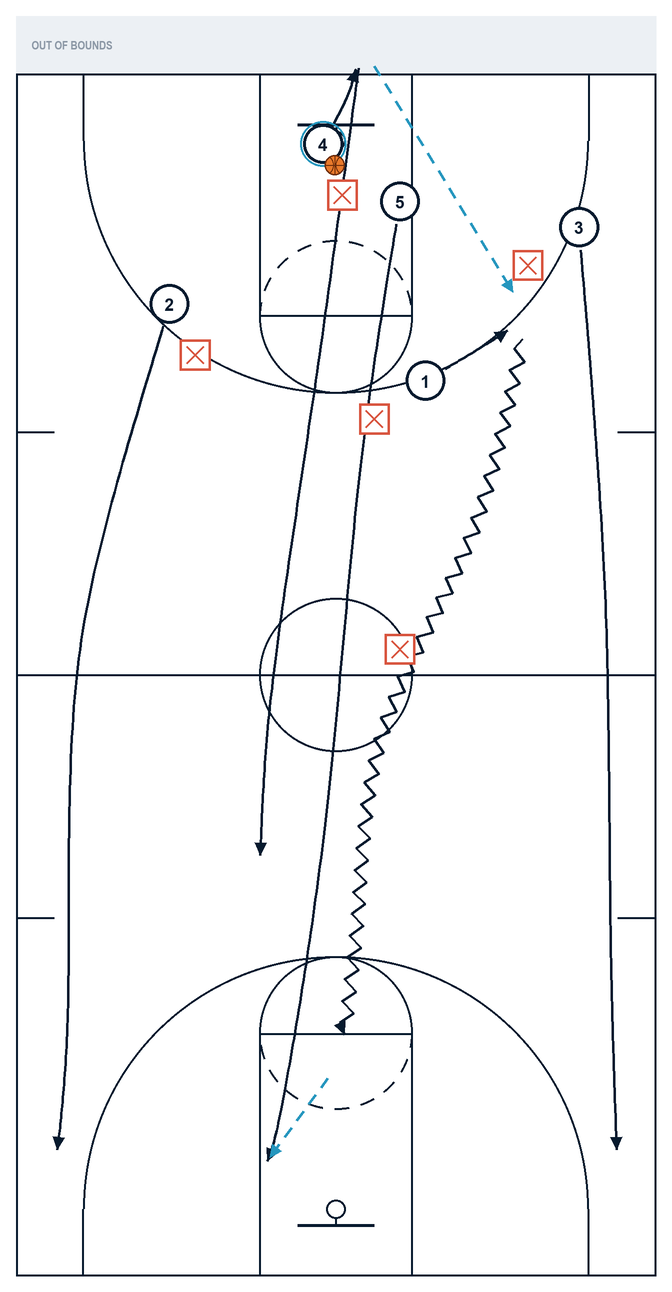
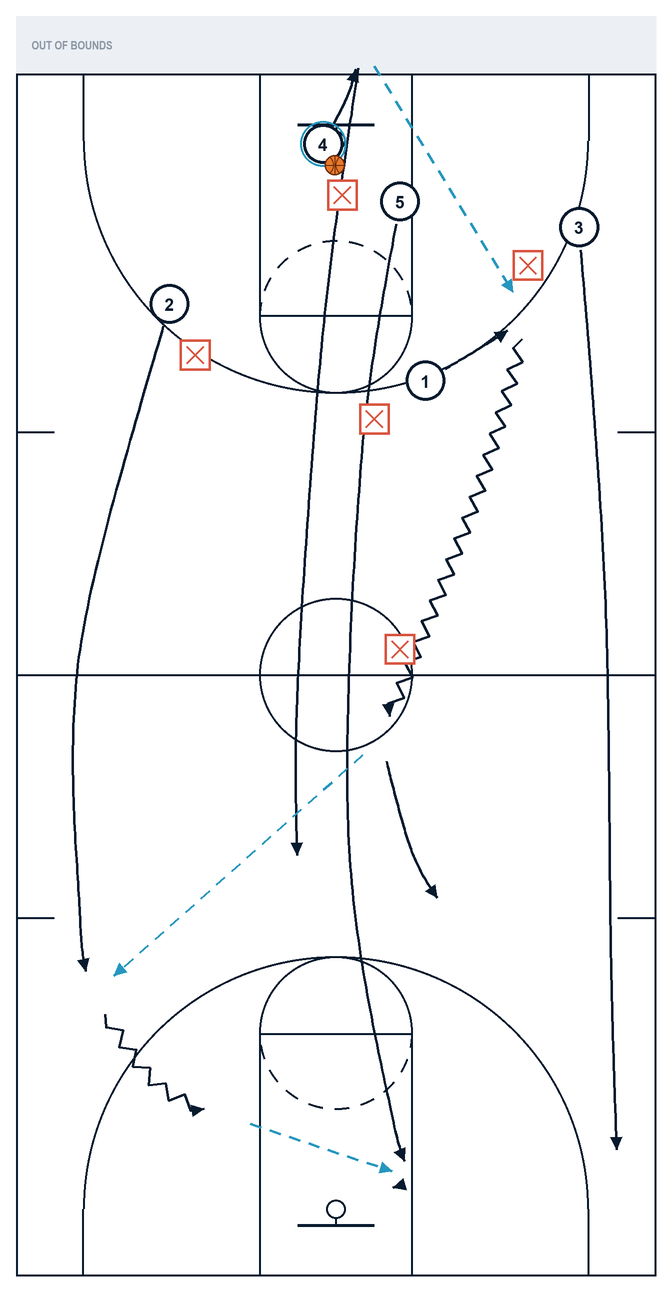
Race & Space: wings feed the Rabbit; add Dragon Cut off a rebound

diff --git a/index.html b/index.html
@@ -3888,16 +3888,17 @@ const PLAYS = [
     ],
     drills:["usScreen", "us5on0", "bfcMikan"] },
   // ── Transition (Race & Space) ──
-  { id:"race-space-rebound", name:"Race & Space: Off a Rebound", side:"transition", tag:"Race & Space · Defensive rebound to a layup",
+  { id:"race-space-rebound", name:"Race & Space: Off a Rebound", side:"transition", tag:"Race & Space · Rebound, ahead to 3, Rabbit layup",
     source:{ label:"Mike Neighbors' transition notes, Hoop Thoughts", url:"http://hoopthoughts.blogspot.com/2017/06/mike-neighbors-transition-offense.html" },
-    summary:"Rebound and go. Everybody has a job and a lane: the outlet goes quick, 5 sprints rim to rim, 2 and 3 sprint to the corners, and 1 throws it ahead to whoever beat his man down the floor.",
+    summary:"Rebound and go. Everybody has a job and a lane: the outlet goes quick, 5 sprints rim to rim, 2 and 3 sprint to the corners, 1 throws it ahead to 3, and 3 finds 5 at the rim.",
     steps:[
       "We're on defense at the top. Their shot misses and 4 grabs the rebound.",
       "1 gets wide to the right for the outlet, and 4 throws it to him right away.",
       "5 is the Rabbit: he sprints rim to rim, straight down the middle, to occupy the deep defender.",
       "2 and 3 are the Locks: they sprint the lanes wide and deep, all the way to the corners. 4 is the Dragon and trails the play.",
       "1 pushes the dribble and throws it ahead, up the street, to 3, who is running ahead of his man.",
-      "5 holds the deep defender on the block, so the rim is open. 3 attacks it for the layup.",
+      "5 holds the deep defender on the block. 3 attacks the rim.",
+      "The deep defender has to leave 5 to stop 3, so 3 hits 5 for the layup.",
     ],
     points:[
       "The race starts the moment we get the ball. Don't jog, don't look back: sprint your lane.",
@@ -3906,20 +3907,38 @@ const PLAYS = [
       "Locks: stay wide and get all the way to the corner. Spacing is what makes the race work.",
     ],
     drills:["rsArcs", "rsIntro", "trailer"] },
-  { id:"race-space-make", name:"Race & Space: Off a Made Shot", side:"transition", tag:"Race & Space · Made basket to a layup",
+  { id:"race-space-dragon", name:"Race & Space: Dragon Cut", side:"transition", tag:"Race & Space · Rebound, ahead to 3, Dragon layup",
     source:{ label:"Mike Neighbors' transition notes, Hoop Thoughts", url:"http://hoopthoughts.blogspot.com/2017/06/mike-neighbors-transition-offense.html" },
-    summary:"Even after they score, we race. 4 takes it out fast, 1 gets it right away and attacks the middle, and when the deep defender has to step up to stop him, 5 is open at the rim.",
+    summary:"The same race off a miss, but this time the deep defender stays home on 5. So 3 holds it and waits for 4, the Dragon, to trail down the middle, then hits him on a basket cut for the layup.",
+    steps:[
+      "We're on defense at the top. Their shot misses and 4 grabs the rebound.",
+      "4 outlets to 1, and everybody races: 5 sprints rim to rim, 2 and 3 sprint the lanes, 4 trails as the Dragon.",
+      "1 pushes the dribble and throws it ahead, up the street, to 3.",
+      "5 holds the deep defender on the block, and this time he stays with 5. So 3 doesn't force it: he waits on the Dragon.",
+      "4 trails down the middle, ahead of his man, who was late getting back.",
+      "4 cuts hard to the rim, and 3 hits him in stride for the layup.",
+    ],
+    points:[
+      "3: if the Rabbit is covered, don't force it. Hold it, keep your spacing and look for the trailer.",
+      "4: the Dragon runs too. Trail down the middle, then cut hard to the rim when you get to the top.",
+      "If the defense walls up to stop the ball, the trailer is open. Neighbors' rule: your trailer has to be open.",
+      "Hit the cutter in stride, out in front of him, so he can lay it in without stopping.",
+    ],
+    drills:["rsArcs", "rsIntro", "trailer"] },
+  { id:"race-space-make", name:"Race & Space: Off a Made Shot", side:"transition", tag:"Race & Space · Made basket, ahead to 2, Rabbit layup",
+    source:{ label:"Mike Neighbors' transition notes, Hoop Thoughts", url:"http://hoopthoughts.blogspot.com/2017/06/mike-neighbors-transition-offense.html" },
+    summary:"Even after they score, we race. 4 takes it out fast, 1 pushes and throws it ahead to 2, and when the deep defender has to step up to stop 2, 5 is open at the rim.",
     steps:[
       "They score at the top. 4 grabs the ball and steps out of bounds right away, no waiting.",
       "1 gets to the right side at the free-throw line extended, and 4 inbounds it to him right away.",
-      "5 sprints rim to rim and runs to the block opposite the ball. 2 and 3 sprint the lanes to the corners.",
-      "1 crosses the street with the dribble and attacks down the middle while the defense is still running back.",
-      "4 steps in and trails the play as the Dragon.",
-      "The deep defender has to step up to stop 1, so 1 dumps it off to 5 at the rim for the layup.",
+      "5 sprints rim to rim and runs to the block opposite the ball. 2 and 3 sprint the lanes.",
+      "1 pushes it up the middle while the defense is still running back. 4 steps in and trails the play as the Dragon.",
+      "1 throws it ahead, up the street, to 2 running the left lane.",
+      "2 attacks the rim. The deep defender has to leave 5 to stop him, so 2 hits 5 for the layup.",
     ],
     points:[
       "A made basket is not a time out. The fastest inbound wins the race.",
-      "1: get the ball and go. Attack downhill; a defender running backward can't guard you.",
+      "1: get the ball and go. If a wing is ahead of his man, throw it ahead. The ball moves faster than anyone can run.",
       "5: run to the block opposite the ball and show your hands. If your man leaves you, you score.",
       "Dragon: trail the play and stay ready. If the defense walls up to stop the ball, the trailer is open.",
     ],

diff --git a/make-plays.py b/make-plays.py
@@ -123,6 +123,28 @@ DRIBBLE_AT_CAPTIONS = [
     (7.5, "2 passes to 5 and cuts. 3 fills the open corner"),
 ]
 
+# Race & Space off a miss: the opening both rebound plays share. 4 rebounds
+# and outlets to 1, everyone races, and 1 throws it ahead to 3.
+RS_REBOUND_START = {4: (22, 6.5), 5: (29.5, 8.5), 1: (31, 24), 2: (10, 17), 3: (40, 17)}
+RS_REBOUND_CHASE = {"from": {4: (20.5, 10.5), 5: (27, 44), 1: (26, 27), 2: (8, 21), 3: (43, 21.5)},
+                    "speed": 11, "delay": {4: 0.8, 1: 0.7, 2: 0.7, 3: 0.7, 5: 0.3}}
+RS_REBOUND = [
+    {"move": 1, "t": (0.3, 1.0), "path": [(31, 24), (37, 23), (42, 24)]},
+    {"pass": (4, 1), "t": (0.9, 1.4)},
+    {"move": 5, "t": (0.5, 4.4), "path": [(29.5, 8.5), (27, 30), (24, 60), (21, 82), (19.5, 86.5)]},
+    {"move": 3, "t": (0.6, 3.3), "path": [(40, 17), (45, 38), (46, 58), (44.5, 71)]},
+    {"move": 2, "t": (0.6, 4.4), "path": [(10, 17), (5, 45), (4, 74), (3, 86)]},
+    {"dribble": 1, "t": (1.5, 3.0), "path": [(42, 24), (37, 38), (32.5, 51)]},
+    {"pass": (1, 3), "t": (3.0, 3.6)},
+    {"move": 1, "t": (3.6, 5.2), "path": [(32.5, 51), (35, 56), (38.5, 60)]},
+]
+RS_REBOUND_CAPTIONS = [
+    (0.0, "Off a miss: 4 grabs the rebound. Everybody races"),
+    (0.9, "4 outlets to 1, quick. 5 sprints rim to rim"),
+    (1.6, "2 and 3 sprint the lanes to the corners. 4 trails"),
+    (3.0, "1 throws it ahead to 3, up the street"),
+]
+
 PLAYS = [
     {
         # Pass and Cut around the horn: 2 passes to 3, 3 to 5, and 5 to 4,
@@ -619,44 +641,62 @@ PLAYS = [
     # 2 and 3 the Locks (corner runners), 4 the Dragon (trailer). We defend the
     # top basket and race to the far one.
     {
-        # Off a miss: 4 rebounds and outlets to 1, 1 throws it ahead to 3
-        # running the right lane, 5 holds the deep defender, 3 lays it in.
+        # Off a miss: 4 rebounds and outlets to 1, 1 throws it ahead to 3, 3
+        # attacks, the deep defender has to step up, and 3 hits 5.
         "slug": "race-space-rebound",
         "title": "Race & Space: Off a Rebound",
         "depth": 94,
         "hoop": (25, 88.75),
         "fps": 15,
-        "start": {4: (22, 6.5), 5: (29.5, 8.5), 1: (31, 24), 2: (10, 17), 3: (40, 17)},
+        "start": RS_REBOUND_START,
         "ball": 4,
-        "chase": {"from": {4: (20.5, 10.5), 5: (27, 44), 1: (26, 27), 2: (8, 21), 3: (43, 21.5)},
-                  "speed": 11, "delay": {4: 0.8, 1: 0.7, 2: 0.7, 3: 0.7, 5: 0.3}},
-        "length": 7.2,
-        "events": [
-            {"move": 1, "t": (0.3, 1.0), "path": [(31, 24), (37, 23), (42, 24)]},
-            {"pass": (4, 1), "t": (0.9, 1.4)},
-            {"move": 5, "t": (0.5, 4.4), "path": [(29.5, 8.5), (27, 30), (24, 60), (21, 82), (19.5, 86.5)]},
-            {"move": 3, "t": (0.6, 3.3), "path": [(40, 17), (45, 38), (46, 58), (44.5, 71)]},
-            {"move": 2, "t": (0.6, 4.4), "path": [(10, 17), (5, 45), (4, 74), (3, 86)]},
-            {"dribble": 1, "t": (1.5, 3.0), "path": [(42, 24), (37, 38), (32.5, 51)]},
-            {"pass": (1, 3), "t": (3.0, 3.6)},
-            {"dribble": 3, "t": (3.7, 4.7), "path": [(44.5, 71), (39, 80), (30.8, 85.6)]},
-            {"shot": 3, "t": (4.7, 5.2)},
-            {"move": 1, "t": (3.6, 5.2), "path": [(32.5, 51), (36, 62), (40, 70)]},
+        "chase": RS_REBOUND_CHASE,
+        "length": 7.6,
+        "events": RS_REBOUND + [
             {"move": 4, "t": (1.3, 5.8), "path": [(22, 6.5), (24, 30), (25, 55), (25, 66)]},
+            {"dribble": 3, "t": (3.7, 4.6), "path": [(44.5, 71), (41.5, 76), (38, 79.5)]},
+            {"guard": 5, "t": (4.0, 5.4), "at": (33.8, 82.2), "recover": 1.0},
+            {"pass": (3, 5), "t": (4.6, 5.1)},
+            {"move": 5, "t": (5.1, 5.4), "path": [(19.5, 86.5), (22.6, 87.6)]},
+            {"shot": 5, "t": (5.3, 5.8)},
         ],
-        "captions": [
-            (0.0, "Off a miss: 4 grabs the rebound. Everybody races"),
-            (0.9, "4 outlets to 1, quick. 5 sprints rim to rim"),
-            (1.6, "2 and 3 sprint the lanes to the corners. 4 trails"),
-            (3.0, "1 throws it ahead to 3, up the street"),
+        "captions": RS_REBOUND_CAPTIONS + [
             (3.7, "5 holds the deep defender. 3 attacks the rim"),
-            (4.7, "3 beats them all down the floor for the layup!"),
+            (4.6, "The deep defender has to step up on 3. 3 hits 5"),
+            (5.3, "Rabbit layup! We beat them down the floor"),
+        ],
+    },
+    {
+        # The same race off a miss, but 5's man stays home: 3 waits for 4,
+        # the Dragon, to trail down and hits him on a basket cut.
+        "slug": "race-space-dragon",
+        "title": "Race & Space: Dragon Cut",
+        "depth": 94,
+        "hoop": (25, 88.75),
+        "fps": 15,
+        "start": RS_REBOUND_START,
+        "ball": 4,
+        "chase": dict(RS_REBOUND_CHASE, delay={4: 1.6, 1: 0.7, 2: 0.7, 3: 0.7, 5: 0.3}),
+        "reach": 4,
+        "length": 9.0,
+        "events": RS_REBOUND + [
+            {"move": 4, "t": (1.3, 5.0), "path": [(22, 6.5), (24, 30), (25, 52), (25, 64)]},
+            {"move": 4, "t": (5.0, 6.0), "path": [(25, 64), (26.5, 73), (27.5, 81.5)]},
+            {"pass": (3, 4), "t": (5.4, 5.8)},               # hit him in stride, mid-cut
+            {"move": 4, "t": (6.0, 6.3), "path": [(27.5, 81.5), (26.4, 85.6)]},
+            {"shot": 4, "t": (6.2, 6.7)},
+        ],
+        "captions": RS_REBOUND_CAPTIONS + [
+            (3.7, "5 holds the deep defender. 3 waits on the Dragon"),
+            (4.6, "Here comes 4, the Dragon, trailing down the middle"),
+            (5.4, "4 cuts hard to the rim. 3 hits him in stride"),
+            (6.2, "Dragon layup!"),
         ],
     },
     {
         # Off a make: 4 grabs it, steps out and inbounds to 1 right away, 1
-        # crosses the street and attacks the middle; the deep defender
-        # leaves 5 to stop him, and 1 dumps it to 5 at the rim.
+        # pushes and throws it ahead to 2; 2 attacks, the deep defender has
+        # to step up, and 2 hits 5 on the far block.
         "slug": "race-space-make",
         "title": "Race & Space: Off a Made Shot",
         "depth": 94,
@@ -667,28 +707,32 @@ PLAYS = [
         "ball": 4,
         "chase": {"from": {4: (25.5, 9.5), 5: (30, 45), 1: (28, 27), 2: (14, 22), 3: (40, 15)},
                   "speed": 11, "delay": {4: 1.0, 1: 1.0, 2: 1.0, 3: 1.0, 5: 0.3}},
-        "length": 7.4,
+        "length": 7.8,
         "events": [
             {"move": 4, "t": (0.2, 0.9), "path": [(24, 5.5), (26, 1.5), (27, -2.2)]},
             {"move": 1, "t": (0.3, 1.0), "path": [(32, 24), (37, 21), (40, 19)]},
             {"pass": (4, 1), "t": (1.0, 1.5)},
-            {"move": 5, "t": (0.4, 4.4), "path": [(30, 10), (27, 30), (24, 60), (20.5, 82), (18.5, 86.5)]},
-            {"move": 2, "t": (0.5, 4.3), "path": [(12, 18), (5, 45), (4, 75), (3, 86)]},
+            {"move": 5, "t": (0.4, 4.4), "path": [(30, 10), (27, 30), (26, 60), (29.5, 82), (31.5, 86.5)]},
+            {"move": 2, "t": (0.5, 3.7), "path": [(12, 18), (5, 45), (5, 66), (6, 72)]},
             {"move": 3, "t": (0.5, 4.2), "path": [(44, 12), (46, 40), (46.5, 70), (47, 86)]},
-            {"dribble": 1, "t": (1.6, 4.4), "path": [(40, 19), (36, 35), (28.5, 52), (26.5, 68), (25.5, 77)]},
-            {"guard": 5, "t": (4.0, 5.4), "at": (24, 81), "recover": 1.0},
-            {"pass": (1, 5), "t": (4.5, 4.9)},
-            {"move": 5, "t": (4.9, 5.2), "path": [(18.5, 86.5), (22, 87.6)]},
-            {"shot": 5, "t": (5.1, 5.6)},
-            {"move": 4, "t": (1.6, 5.8), "path": [(27, -2.2), (24, 20), (20, 48), (19, 63)]},
+            {"dribble": 1, "t": (1.6, 3.3), "path": [(40, 19), (36, 33), (28.5, 52)]},
+            {"pass": (1, 2), "t": (3.3, 3.9)},
+            {"move": 1, "t": (4.0, 5.5), "path": [(28.5, 52), (31, 61), (34, 66)]},
+            {"dribble": 2, "t": (4.0, 4.9), "path": [(6, 72), (11, 79), (16.5, 81.5)]},
+            {"guard": 5, "t": (4.2, 5.6), "at": (19.6, 82.6), "recover": 1.0},
+            {"pass": (2, 5), "t": (4.9, 5.3)},
+            {"move": 5, "t": (5.3, 5.6), "path": [(31.5, 86.5), (27.6, 87.6)]},
+            {"shot": 5, "t": (5.5, 6.0)},
+            {"move": 4, "t": (1.6, 5.8), "path": [(27, -2.2), (24, 20), (22, 48), (22, 63)]},
         ],
         "captions": [
             (0.0, "Off a make: 4 grabs it and steps out of bounds, fast"),
             (1.0, "4 inbounds to 1 right away. Don't wait"),
-            (1.6, "1 crosses the street with the dribble. 5 runs rim to rim"),
-            (2.7, "2 and 3 sprint to the corners. 4 trails as the Dragon"),
-            (4.0, "The deep defender steps up to stop 1. 1 dumps it to 5"),
-            (5.1, "Layup! We beat them down the floor"),
+            (1.6, "1 pushes it up the middle. 5 runs rim to rim"),
+            (2.4, "2 and 3 sprint the lanes. 4 trails as the Dragon"),
+            (3.3, "1 throws it ahead to 2, up the street"),
+            (4.0, "2 attacks. The deep defender has to step up"),
+            (4.9, "2 hits 5, the Rabbit, for the layup!"),
         ],
     },
     # ── Defense ─────────────────────────────────────────────────────────────
